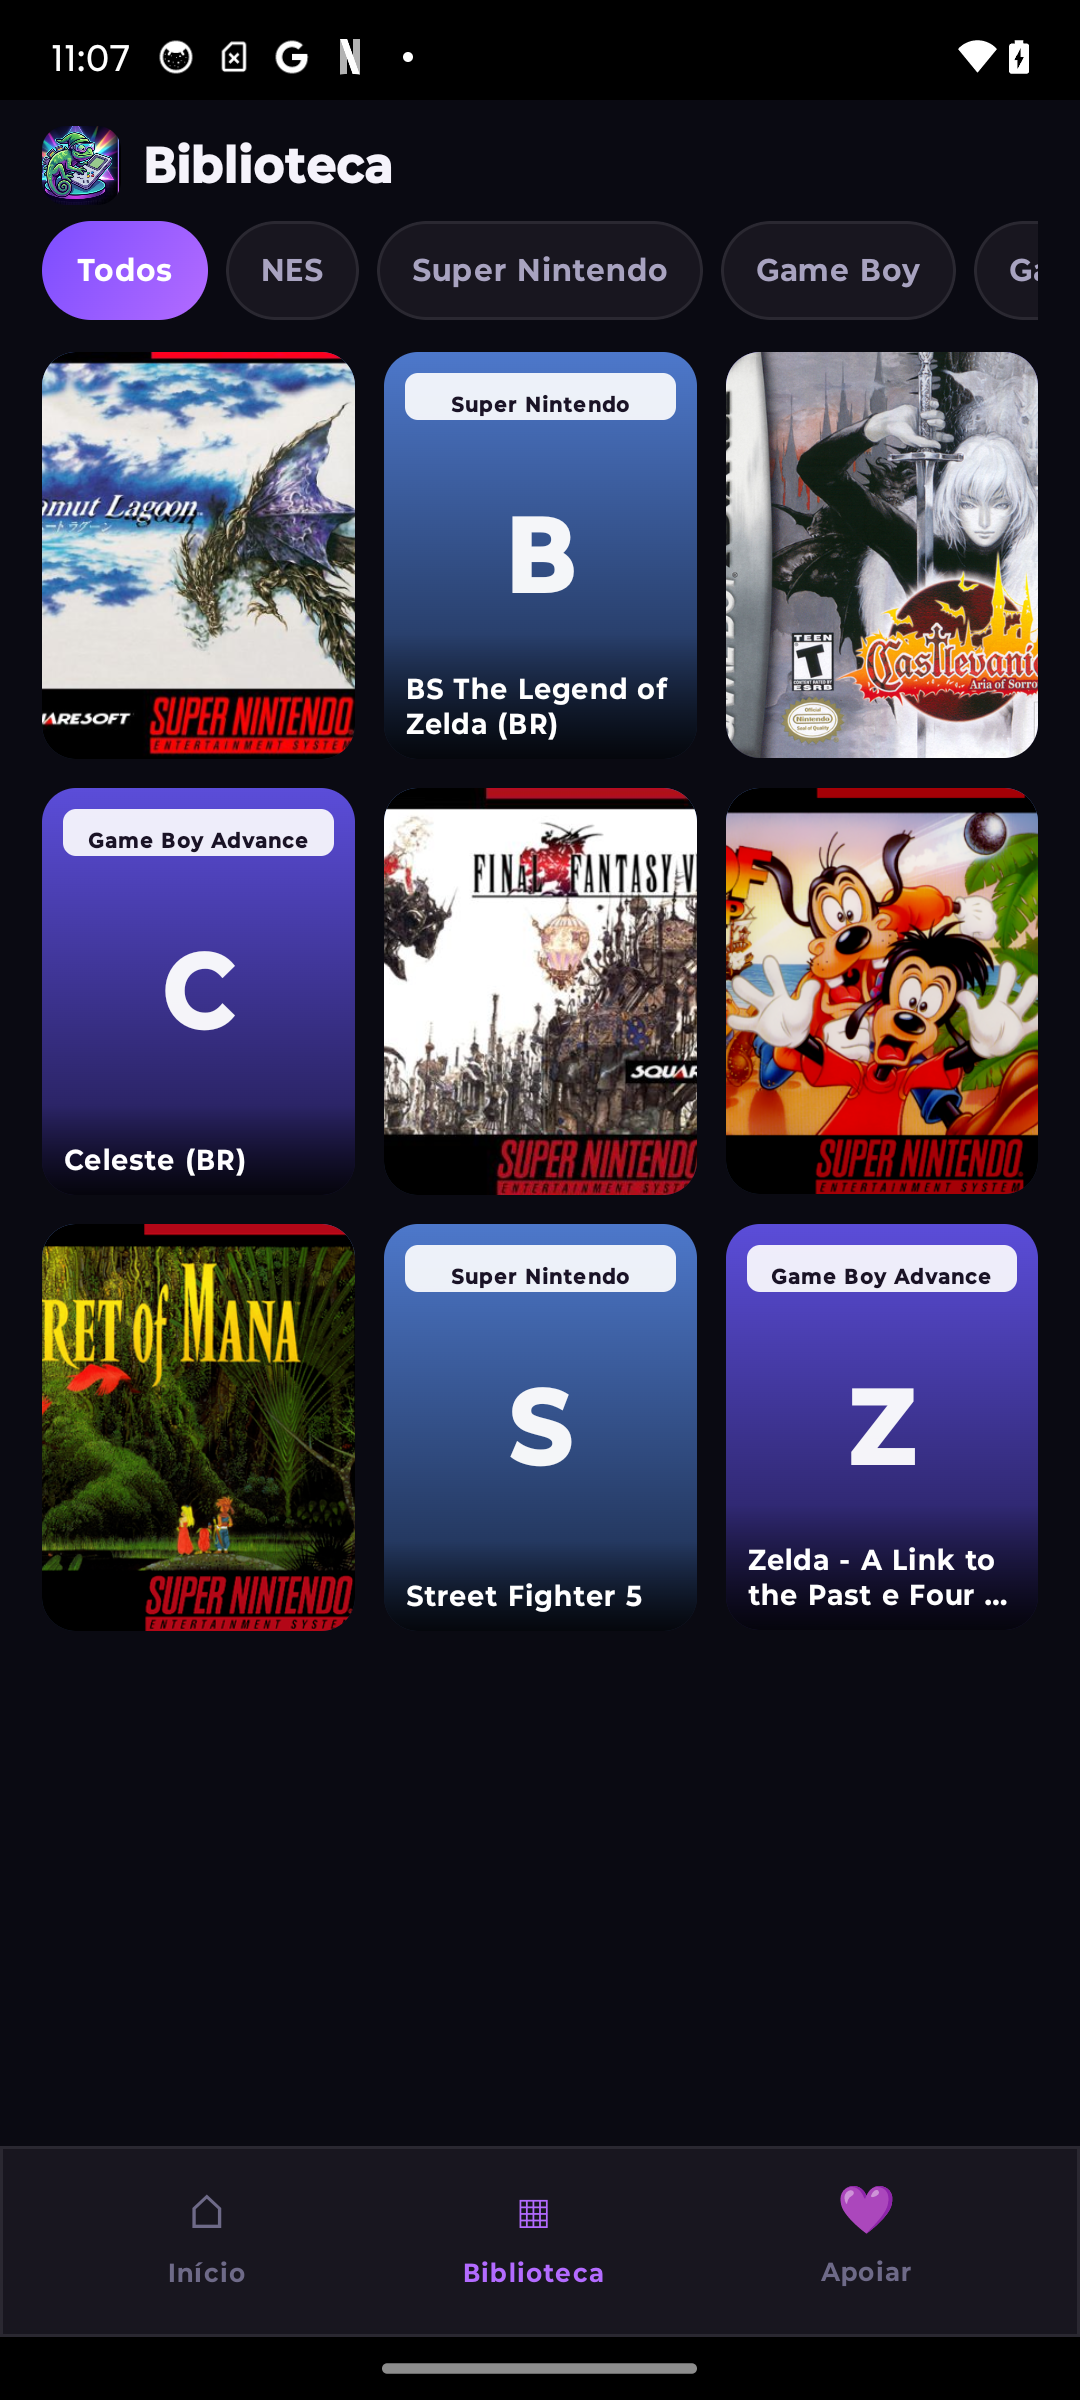
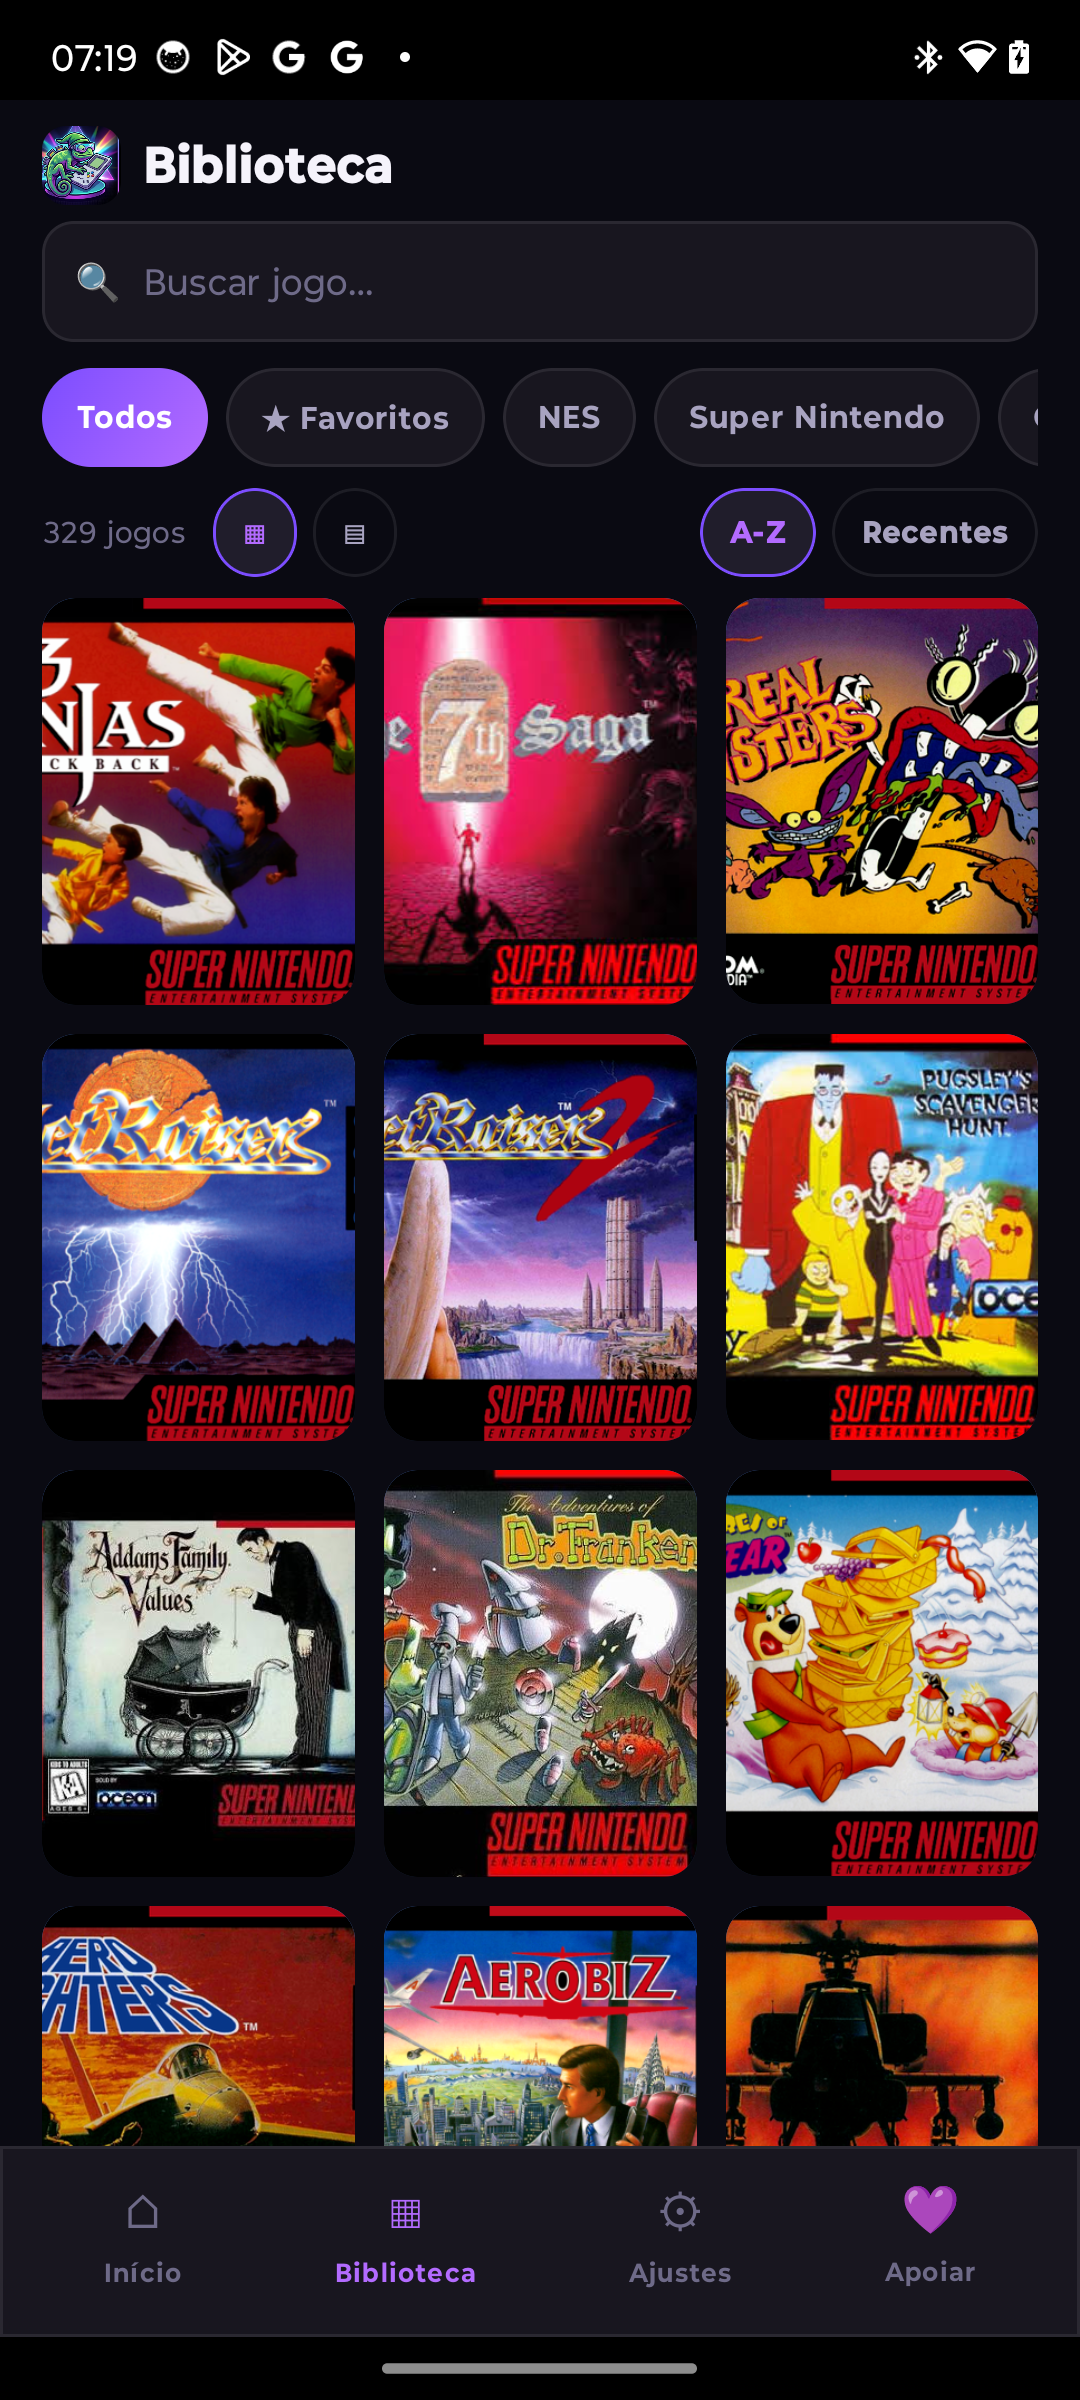
docs: landing page promocional (GitHub Pages) + prints atualizados
- docs/index.html: página de lançamento (hero, instalação, recursos,
  telas, consoles, privacidade) com botão de download do APK v1.0.
  Tema escuro do app; servida pelo Pages em kurousagin.github.io/prisma.
- Prints atualizados com o app atual: inicio e biblioteca; novos estante
  e ficha do jogo.

diff --git a/docs/index.html b/docs/index.html
@@ -1,0 +1,235 @@
+<!doctype html>
+<html lang="pt-BR">
+<head>
+<meta charset="utf-8">
+<meta name="viewport" content="width=device-width, initial-scale=1, viewport-fit=cover">
+<title>Prisma — Emulador de clássicos retrô</title>
+<meta name="description" content="Prisma: emulador retrô para Android, grátis, sem anúncios e de código aberto. NES, Super Nintendo, Game Boy, GBA e Mega Drive — com suas próprias ROMs.">
+
+<!-- Open Graph / prévia em links -->
+<meta property="og:title" content="Prisma — Emulador de clássicos retrô">
+<meta property="og:description" content="Grátis, sem anúncios e de código aberto. NES, SNES, Game Boy, GBA e Mega Drive no seu Android.">
+<meta property="og:image" content="https://kurousagin.github.io/prisma/img/feature.png">
+<meta property="og:type" content="website">
+
+<link rel="preconnect" href="https://fonts.googleapis.com">
+<link rel="preconnect" href="https://fonts.gstatic.com" crossorigin>
+<link rel="stylesheet" href="https://fonts.googleapis.com/css2?family=Fredoka:wght@500;600;700&family=Inter:wght@400;500;600&display=swap">
+
+<style>
+  :root{
+    color-scheme: dark;
+    --bg:#08080f; --bg2:#0f0d18; --card:#15121f; --line:#241f33;
+    --fg:#f5f3fb; --dim:#a8a3c0; --faint:#6e6a88;
+    --acc:#7C4DFF; --acc2:#B36BFF; --green:#56E39F; --blue:#5B8DEF;
+    --radius:18px;
+    --gut: max(20px, env(safe-area-inset-left,0px));
+  }
+  *{box-sizing:border-box}
+  html{-webkit-text-size-adjust:100%}
+  body{
+    margin:0; background:var(--bg); color:var(--fg);
+    font:16px/1.65 Inter,-apple-system,BlinkMacSystemFont,"Segoe UI",Roboto,sans-serif;
+    overflow-x:hidden;
+  }
+  h1,h2,h3{font-family:Fredoka,Inter,sans-serif; line-height:1.15; text-wrap:balance; margin:0}
+  a{color:var(--acc2); text-decoration:none}
+  img{max-width:100%; display:block}
+  .wrap{max-width:1080px; margin:0 auto; padding-left:var(--gut); padding-right:max(20px,env(safe-area-inset-right,0px))}
+
+  /* glow de fundo */
+  body::before{
+    content:""; position:fixed; inset:0; z-index:-1; pointer-events:none;
+    background:
+      radial-gradient(60% 50% at 50% -5%, rgba(124,77,255,.22), transparent 70%),
+      radial-gradient(40% 40% at 90% 10%, rgba(86,227,159,.10), transparent 70%),
+      var(--bg);
+  }
+
+  /* ---------- HERO ---------- */
+  header.hero{padding-block:48px 8px; text-align:center}
+  .banner{
+    max-width:640px; margin:0 auto 26px; border-radius:24px;
+    box-shadow:0 30px 70px -30px rgba(124,77,255,.6);
+  }
+  .tag{color:var(--dim); font-size:clamp(16px,2.6vw,20px); margin:0 auto 22px; max-width:30ch}
+  .badges{display:flex; gap:8px; justify-content:center; flex-wrap:wrap; margin-bottom:30px}
+  .badge{
+    font-size:13px; font-weight:600; padding:7px 14px; border-radius:999px;
+    border:1px solid var(--line); background:rgba(255,255,255,.03); color:var(--fg);
+  }
+  .badge.g{color:var(--green); border-color:rgba(86,227,159,.4)}
+  .badge.p{color:var(--acc2); border-color:rgba(179,107,255,.4)}
+  .badge.b{color:var(--blue); border-color:rgba(91,141,239,.4)}
+
+  .cta{display:flex; flex-direction:column; align-items:center; gap:12px}
+  .btn{
+    display:inline-flex; align-items:center; gap:10px;
+    font-family:Fredoka,sans-serif; font-weight:600; font-size:19px;
+    color:#fff; background:linear-gradient(135deg,var(--acc),var(--acc2));
+    padding:16px 34px; border-radius:999px; border:0;
+    box-shadow:0 14px 34px -10px rgba(124,77,255,.8); transition:transform .12s ease, box-shadow .12s ease;
+  }
+  .btn:hover{transform:translateY(-2px); box-shadow:0 20px 44px -12px rgba(124,77,255,.9)}
+  .btn svg{width:22px; height:22px}
+  .meta{color:var(--faint); font-size:13.5px}
+  .meta a{color:var(--dim)}
+
+  /* ---------- SEÇÕES ---------- */
+  section{padding-block:48px}
+  .eyebrow{color:var(--acc2); font-weight:600; font-size:13px; letter-spacing:.12em; text-transform:uppercase; text-align:center; margin-bottom:10px}
+  h2.title{font-size:clamp(26px,5vw,38px); text-align:center; font-weight:700}
+  .lead{color:var(--dim); text-align:center; max-width:52ch; margin:12px auto 0}
+
+  /* passos de instalação */
+  .steps{display:grid; grid-template-columns:repeat(3,1fr); gap:16px; margin-top:34px}
+  .step{background:var(--card); border:1px solid var(--line); border-radius:var(--radius); padding:22px 20px}
+  .step .n{width:34px; height:34px; border-radius:10px; display:grid; place-items:center; font-family:Fredoka,sans-serif; font-weight:700; color:#fff; background:linear-gradient(135deg,var(--acc),var(--acc2)); margin-bottom:12px}
+  .step h3{font-size:16.5px; margin-bottom:6px}
+  .step p{color:var(--dim); font-size:14px; margin:0}
+
+  /* features */
+  .grid{display:grid; grid-template-columns:repeat(3,1fr); gap:16px; margin-top:34px}
+  .feat{background:var(--card); border:1px solid var(--line); border-radius:var(--radius); padding:22px; transition:border-color .15s ease, transform .15s ease}
+  .feat:hover{border-color:rgba(124,77,255,.45); transform:translateY(-3px)}
+  .feat .ico{font-size:26px; margin-bottom:12px}
+  .feat h3{font-size:16.5px; margin-bottom:6px}
+  .feat p{color:var(--dim); font-size:14px; margin:0}
+
+  /* screenshots */
+  .shots{display:flex; gap:20px; overflow-x:auto; padding:30px 4px 10px; scroll-snap-type:x mandatory; -webkit-overflow-scrolling:touch}
+  .shots figure{margin:0; flex:0 0 auto; width:220px; scroll-snap-align:center}
+  .phone{border:7px solid #1c1830; border-radius:30px; overflow:hidden; box-shadow:0 24px 50px -24px rgba(0,0,0,.8); background:#000}
+  .shots figcaption{color:var(--dim); font-size:13px; text-align:center; margin-top:10px}
+
+  /* consoles */
+  .consoles{background:linear-gradient(180deg,transparent,rgba(124,77,255,.06)); border-block:1px solid var(--line)}
+  .chips{display:flex; gap:10px; justify-content:center; flex-wrap:wrap; margin-top:26px}
+  .chip{background:var(--card); border:1px solid var(--line); border-radius:12px; padding:12px 18px; font-weight:600; font-size:14.5px}
+  .chip span{color:var(--faint); font-weight:500; font-size:12.5px; display:block}
+
+  /* privacidade */
+  .priv{max-width:720px; margin:0 auto; background:var(--card); border:1px solid var(--line); border-radius:var(--radius); padding:26px}
+  .priv ul{margin:14px 0 0; padding-left:20px; color:var(--dim)}
+  .priv li{margin:6px 0}
+
+  footer{border-top:1px solid var(--line); padding-block:34px; text-align:center; color:var(--faint); font-size:14px}
+  footer a{margin:0 10px; color:var(--dim)}
+  footer .fine{margin-top:14px; font-size:12.5px; color:var(--faint)}
+
+  @media (max-width:760px){
+    .steps,.grid{grid-template-columns:1fr}
+    header.hero{padding-block:34px 4px}
+  }
+</style>
+</head>
+<body>
+
+<header class="hero">
+  <div class="wrap">
+    <img class="banner" src="img/feature.png" alt="Prisma — emulador de clássicos retrô" width="1024" height="500">
+    <p class="tag">Transforme seu Android numa consola clássica. Com as suas próprias ROMs.</p>
+    <div class="badges">
+      <span class="badge g">● Grátis pra sempre</span>
+      <span class="badge p">● Sem anúncios</span>
+      <span class="badge b">● Código aberto (GPLv3)</span>
+    </div>
+    <div class="cta">
+      <a class="btn" href="https://github.com/Kurousagin/prisma/releases/download/v1.0/Prisma-1.0.apk">
+        <svg viewBox="0 0 24 24" fill="none" stroke="currentColor" stroke-width="2.2" stroke-linecap="round" stroke-linejoin="round"><path d="M12 3v12m0 0 4-4m-4 4-4-4"/><path d="M4 17v2a2 2 0 0 0 2 2h12a2 2 0 0 0 2-2v-2"/></svg>
+        Baixar APK · v1.0
+      </a>
+      <p class="meta">Android 12+ · ~24 MB · <a href="https://github.com/Kurousagin/prisma/releases">todas as versões</a></p>
+    </div>
+  </div>
+</header>
+
+<section id="instalar">
+  <div class="wrap">
+    <p class="eyebrow">Instalação</p>
+    <h2 class="title">Instalar é rápido</h2>
+    <div class="steps">
+      <div class="step"><div class="n">1</div><h3>Baixe o APK</h3><p>Toque em “Baixar APK” acima. O arquivo vai pra sua pasta de downloads.</p></div>
+      <div class="step"><div class="n">2</div><h3>Permita a instalação</h3><p>Abra o arquivo. Na primeira vez, o Android pede pra liberar “instalar de fontes desconhecidas”.</p></div>
+      <div class="step"><div class="n">3</div><h3>Aponte suas ROMs</h3><p>No app, escolha a pasta onde estão seus jogos. A biblioteca monta sozinha e baixa as capas.</p></div>
+    </div>
+  </div>
+</section>
+
+<section id="recursos">
+  <div class="wrap">
+    <p class="eyebrow">Recursos</p>
+    <h2 class="title">Feito pra quem ama clássicos</h2>
+    <p class="lead">Experiência de consola de verdade, do menu ao jogo — leve e sem frescura.</p>
+    <div class="grid">
+      <div class="feat"><div class="ico">🎮</div><h3>5 gerações, nativas</h3><p>NES, Super Nintendo, Game Boy/Color, GBA e Mega Drive/Genesis/Master System/Game Gear — sem depender de outros apps.</p></div>
+      <div class="feat"><div class="ico">🖼</div><h3>Capas automáticas</h3><p>A biblioteca se organiza sozinha e baixa a arte das caixas. Dá pra trocar a capa por uma da galeria.</p></div>
+      <div class="feat"><div class="ico">📚</div><h3>Biblioteca do seu jeito</h3><p>Filtre por console, ordene e alterne entre grade e a visão “estante”. Sua escolha fica salva.</p></div>
+      <div class="feat"><div class="ico">📖</div><h3>Ficha do jogo</h3><p>Ano, gênero e uma sinopse curta (da Wikipédia), guardados no aparelho.</p></div>
+      <div class="feat"><div class="ico">💾</div><h3>Save states + continua sozinho</h3><p>Vários saves por jogo, com miniatura e data. E ao sair, você volta exatamente de onde parou.</p></div>
+      <div class="feat"><div class="ico">📸</div><h3>Compartilhar print</h3><p>Capture o jogo numa moldura de TV retrô e mande pra onde quiser.</p></div>
+      <div class="feat"><div class="ico">📱</div><h3>Controle pelo celular</h3><p>Use um segundo aparelho como controle, por QR, na mesma rede Wi-Fi. Também aceita gamepad Bluetooth/USB.</p></div>
+      <div class="feat"><div class="ico">🖥</div><h3>Filtros de vídeo</h3><p>Nítido, CRT (tubão) ou LCD. Controles na tela tematizados por console e ocultáveis.</p></div>
+      <div class="feat"><div class="ico">🔒</div><h3>Privacidade total</h3><p>Sem conta, sem anúncios, sem rastreio. Tudo fica no seu aparelho.</p></div>
+    </div>
+  </div>
+</section>
+
+<section id="telas">
+  <div class="wrap">
+    <p class="eyebrow">Telas</p>
+    <h2 class="title">Dá uma olhada</h2>
+  </div>
+  <div class="wrap">
+    <div class="shots">
+      <figure><div class="phone"><img src="img/inicio.png" alt="Tela inicial do Prisma" loading="lazy"></div><figcaption>Início</figcaption></figure>
+      <figure><div class="phone"><img src="img/biblioteca.png" alt="Biblioteca em grade" loading="lazy"></div><figcaption>Biblioteca</figcaption></figure>
+      <figure><div class="phone"><img src="img/estante.png" alt="Biblioteca na visão estante" loading="lazy"></div><figcaption>Visão estante</figcaption></figure>
+      <figure><div class="phone"><img src="img/ficha.png" alt="Ficha do jogo" loading="lazy"></div><figcaption>Ficha do jogo</figcaption></figure>
+    </div>
+  </div>
+</section>
+
+<section class="consoles">
+  <div class="wrap">
+    <p class="eyebrow">Consoles</p>
+    <h2 class="title">Rodam nativos</h2>
+    <div class="chips">
+      <div class="chip">NES</div>
+      <div class="chip">Super Nintendo</div>
+      <div class="chip">Game Boy <span>/ Color</span></div>
+      <div class="chip">Game Boy Advance</div>
+      <div class="chip">Mega Drive <span>/ Genesis</span></div>
+      <div class="chip">Master System</div>
+      <div class="chip">Game Gear</div>
+    </div>
+  </div>
+</section>
+
+<section id="privacidade">
+  <div class="wrap">
+    <div class="priv">
+      <h2 class="title" style="text-align:left;font-size:22px">Grátis, aberto e sem pegadinha</h2>
+      <ul>
+        <li><strong>Grátis pra sempre</strong>, sem anúncios e sem compras dentro do app.</li>
+        <li><strong>Código aberto (GPLv3)</strong> — qualquer um pode auditar e contribuir.</li>
+        <li><strong>Não coleta dados.</strong> A internet é usada só pra baixar capas e a ficha do jogo.</li>
+        <li><strong>Você traz suas ROMs.</strong> O Prisma não distribui jogos nem BIOS.</li>
+      </ul>
+      <p style="margin:16px 0 0"><a href="privacy.html">Política de privacidade →</a></p>
+    </div>
+  </div>
+</section>
+
+<footer>
+  <div class="wrap">
+    <a href="https://github.com/Kurousagin/prisma">GitHub</a>
+    <a href="https://github.com/Kurousagin/prisma/releases">Downloads</a>
+    <a href="privacy.html">Privacidade</a>
+    <a href="mailto:prismaemulator@gmail.com">Contato</a>
+    <p class="fine">Prisma · emulador de clássicos · software livre (GPLv3). Não inclui nem distribui ROMs ou BIOS — use apenas jogos que você tem o direito de usar.</p>
+  </div>
+</footer>
+
+</body>
+</html>
